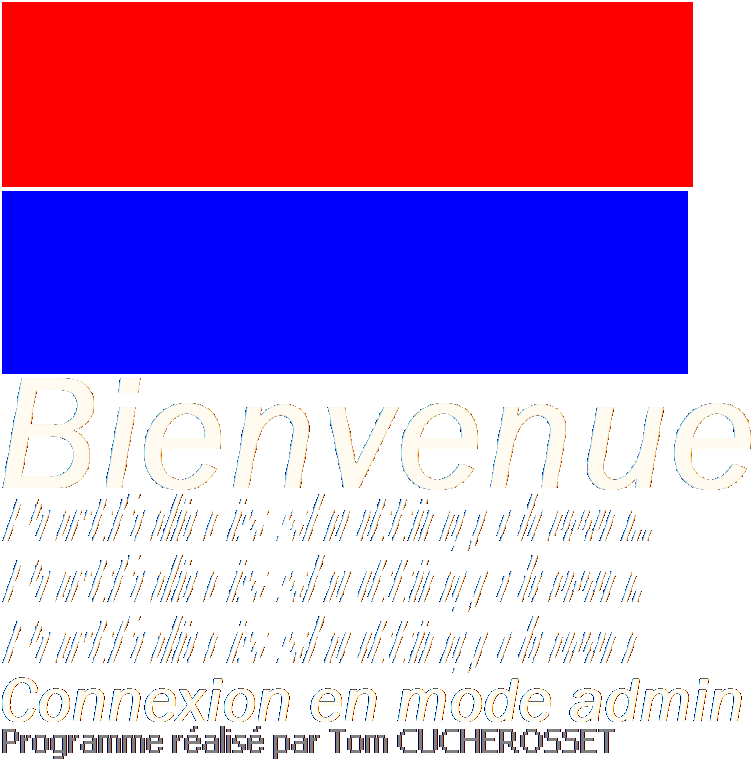
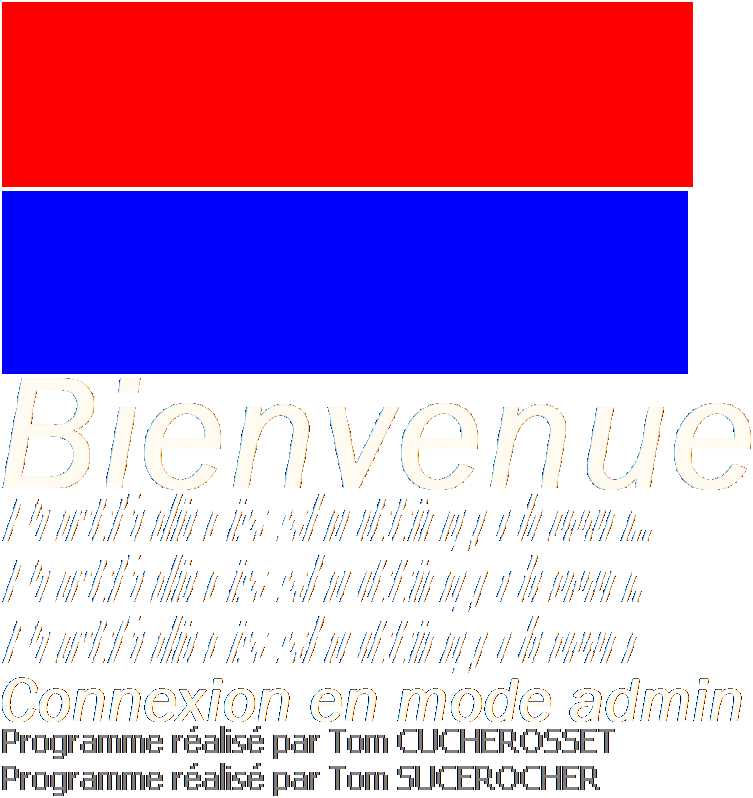
Ajout de l'easter egg du changement de nom

Changed region(s): [[0.0, 0.4534, 1.0, 0.9974], [0.0, 0.2116, 0.9163, 0.272], [0.9469, 0.6045, 0.9774, 0.6347]]

diff --git a/index.html b/index.html
@@ -38,13 +38,13 @@
   <meta name="apple-mobile-web-app-status-bar-style" content="black" />
   <meta name="HandheldFriendly" content="true" />
 
+  <link rel='icon' href='icon.ico' type='image/x-icon'/>
+
   <link rel="preconnect" href="https://fonts.googleapis.com">
   <link rel="preconnect" href="https://fonts.gstatic.com" crossorigin>
   <link href="https://fonts.googleapis.com/css2?family=Lato&display=swap" rel="stylesheet">
 
-  <link rel='icon' href='icon.ico' type='image/x-icon'/>
-  
-  <title>PortfolioInk (Dev)</title>
+  <title>Portfolio (Dev)</title>
 
 	<script>
 	   	// Detection des ancien navigateurs qui ne supportent pas l'element Canvas
